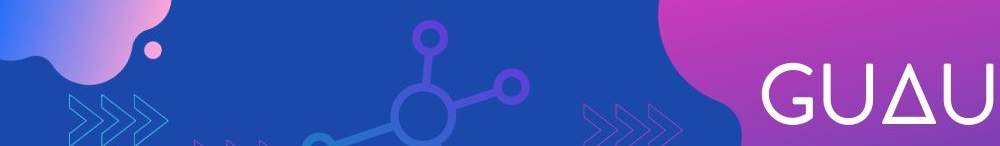
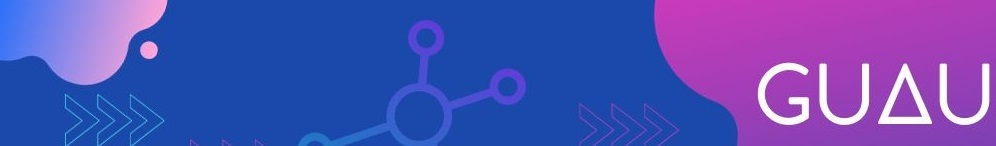
me va gustando

diff --git a/styles.css b/styles.css
@@ -117,4 +117,8 @@ header{
             
          }     
 
+     .logo_inicial{
+        margin-left: 290px;
+     }   
+
     }
